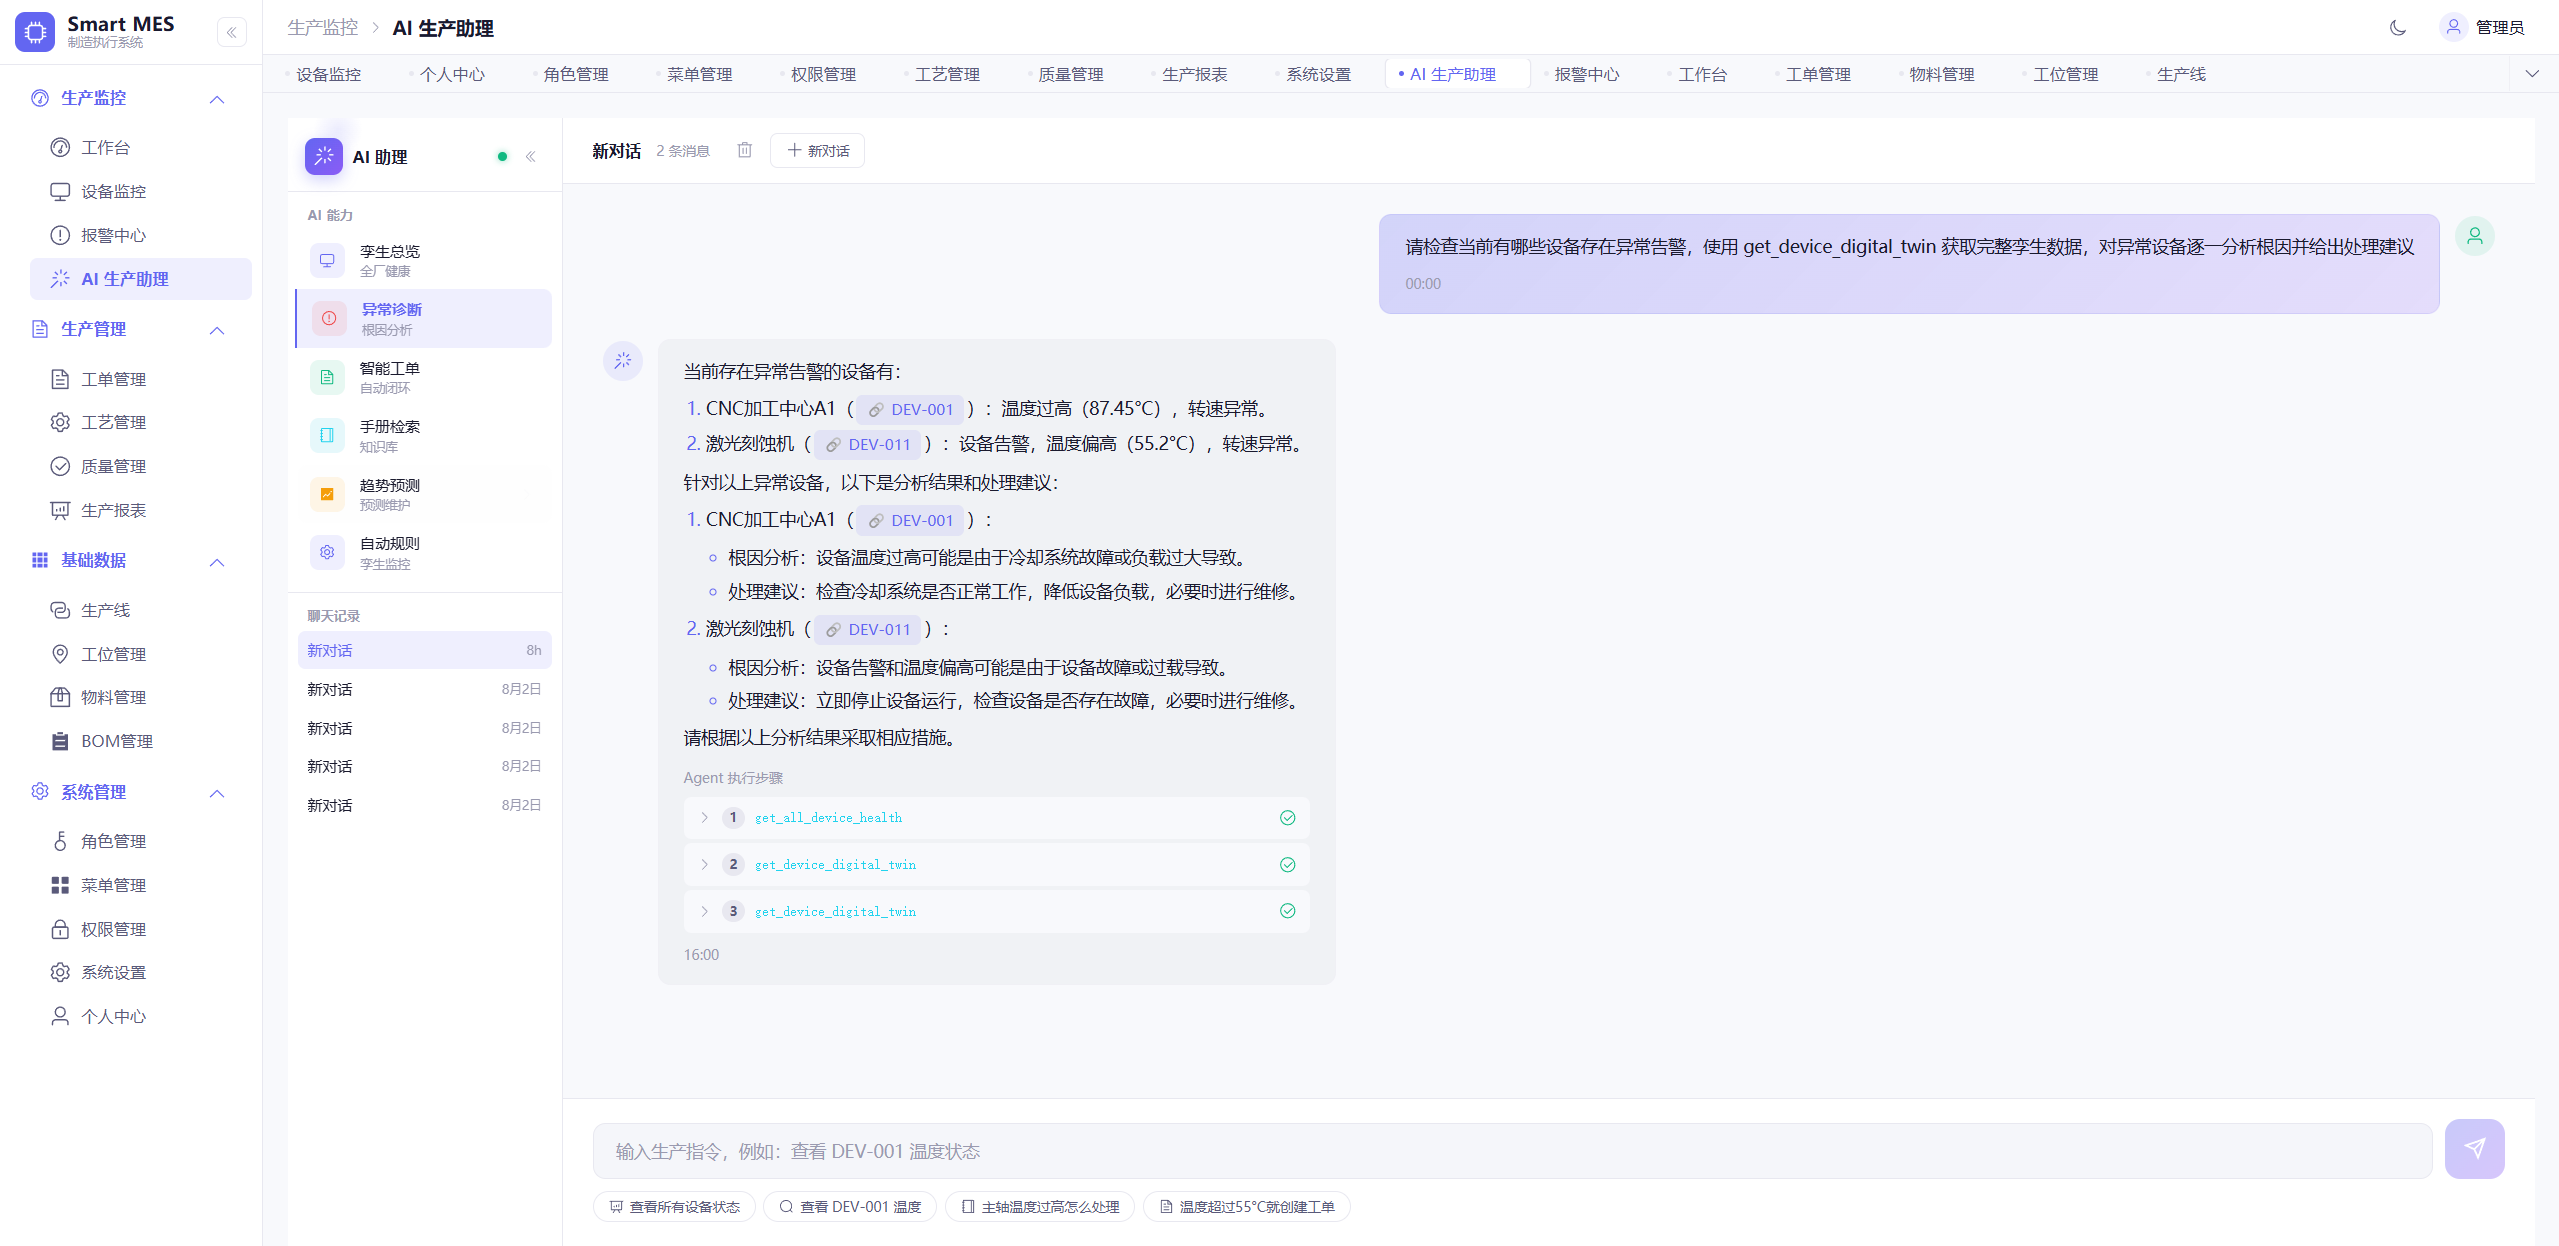
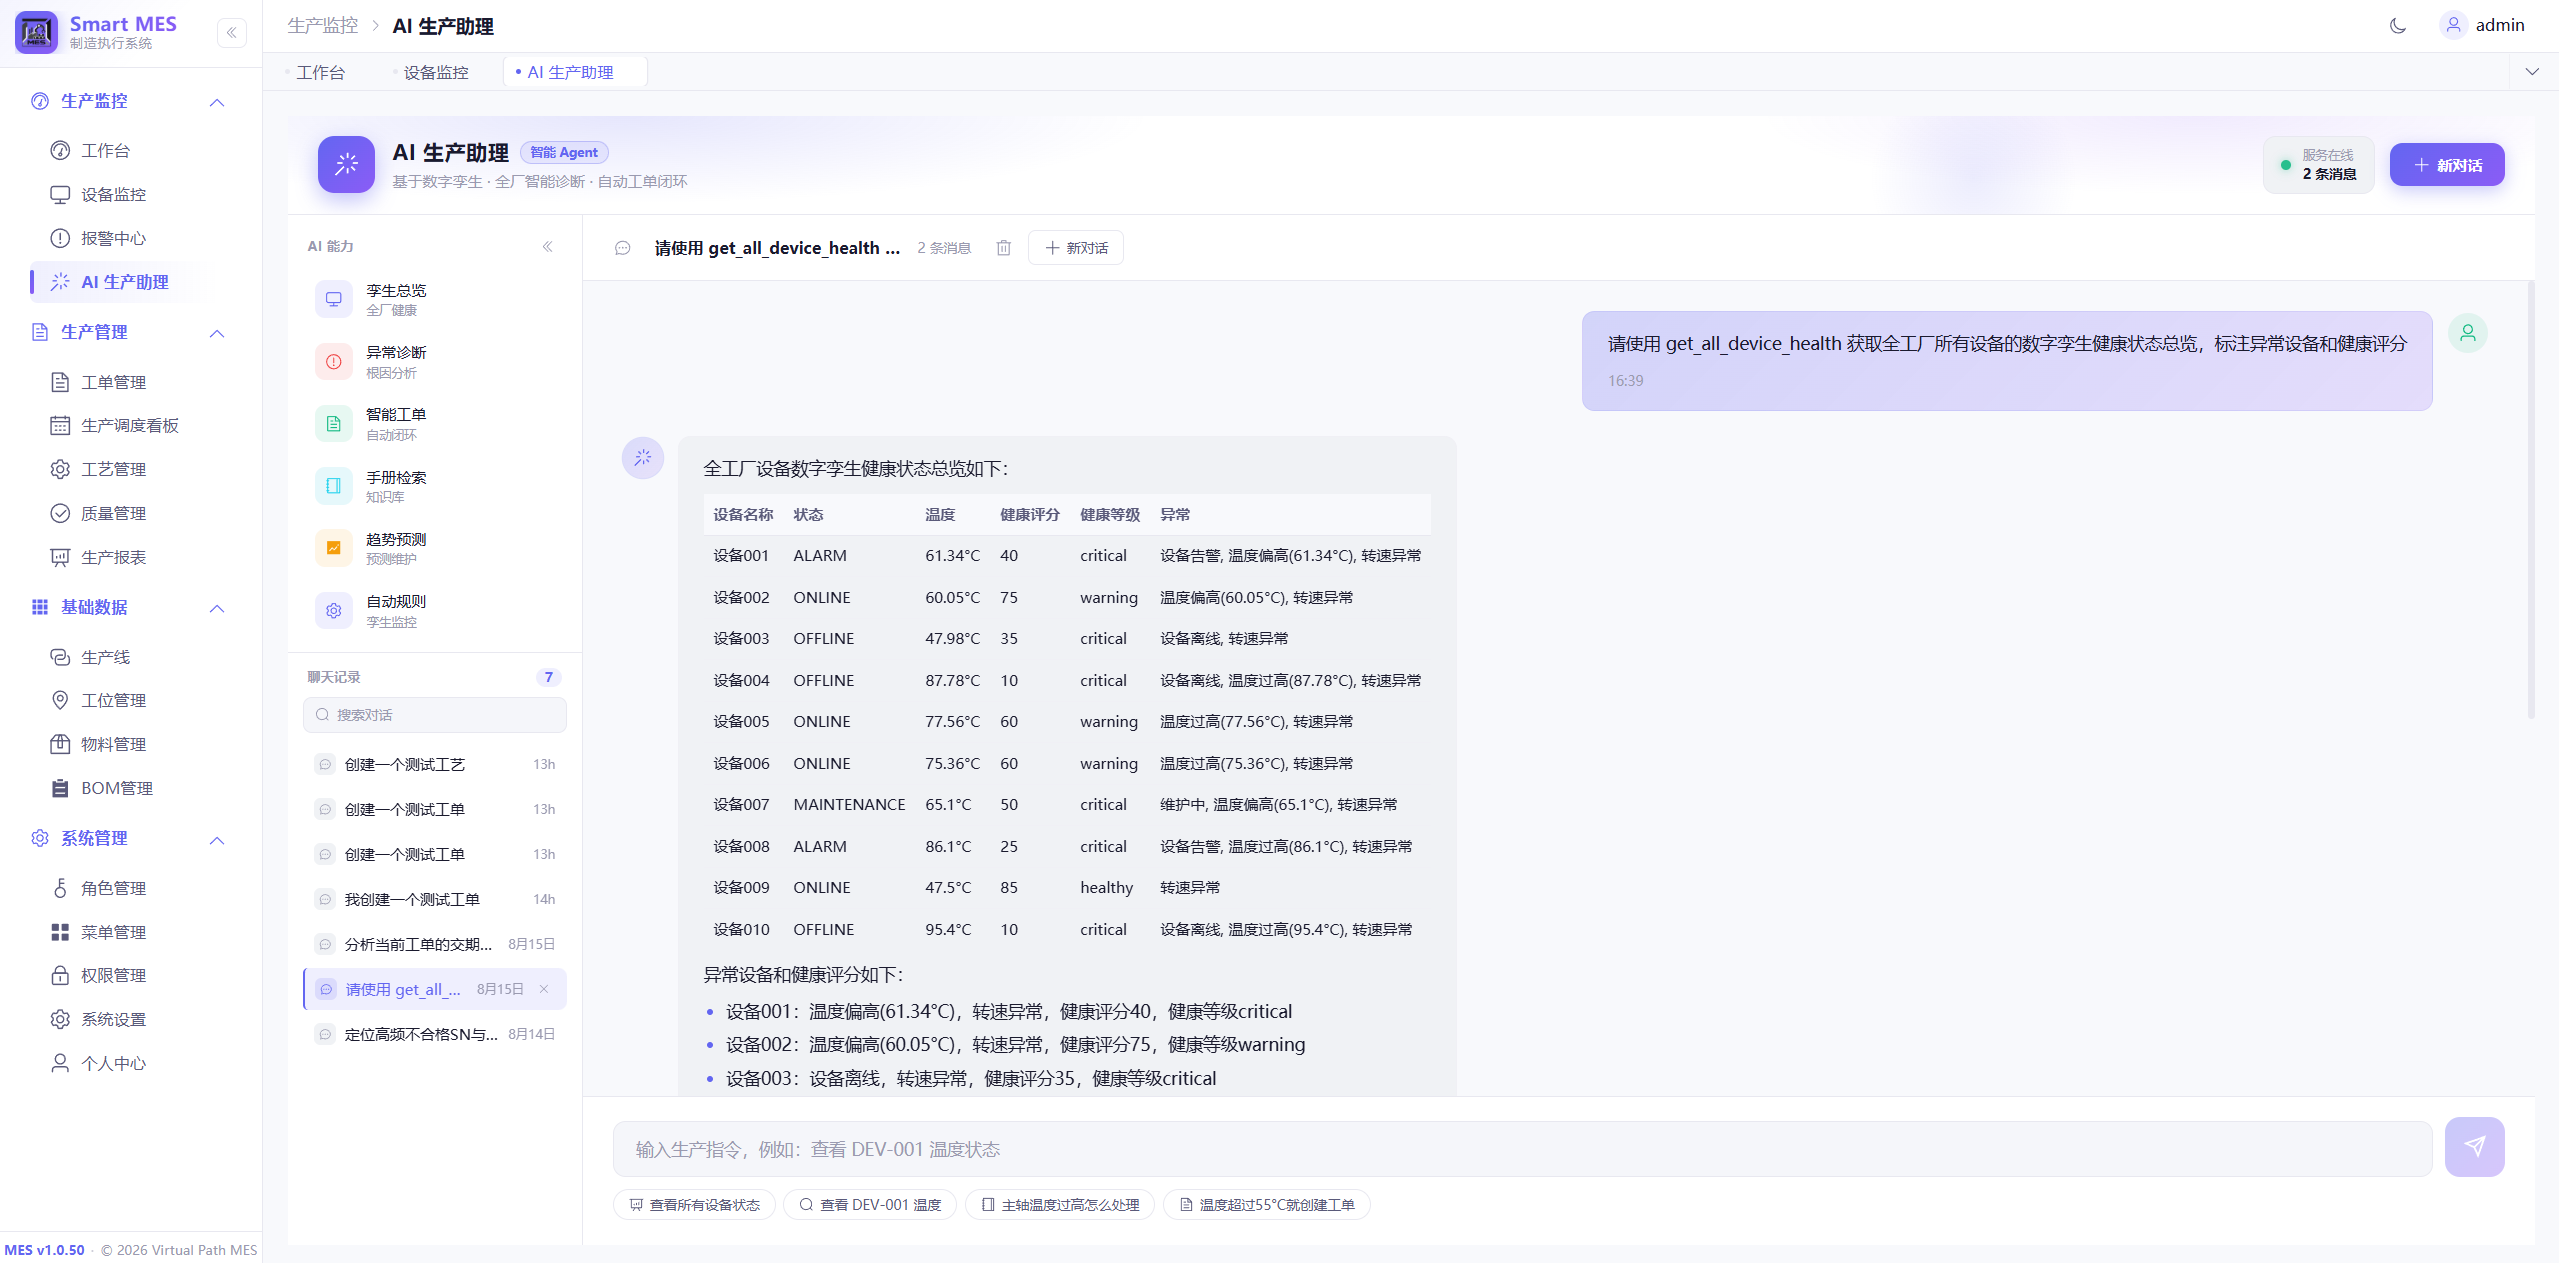
docs(readme): 界面预览补充生产调度看板与智能工单管理截图

diff --git a/README.md b/README.md
@@ -75,9 +75,17 @@
 
 ![生产看板](docs/screenshots/dashboard.jpg)
 
+**生产调度看板**
+
+![生产调度看板](docs/screenshots/production-scheduling-dashboard.jpg)
+
 **设备监控（3D 数字孪生）**
 
 ![设备监控](docs/screenshots/device-monitor.jpg)
+
+**智能工单管理**
+
+![智能工单管理](docs/screenshots/AI-powered%20ticket%20management.jpg)
 
 **AI 生产助理**
 
